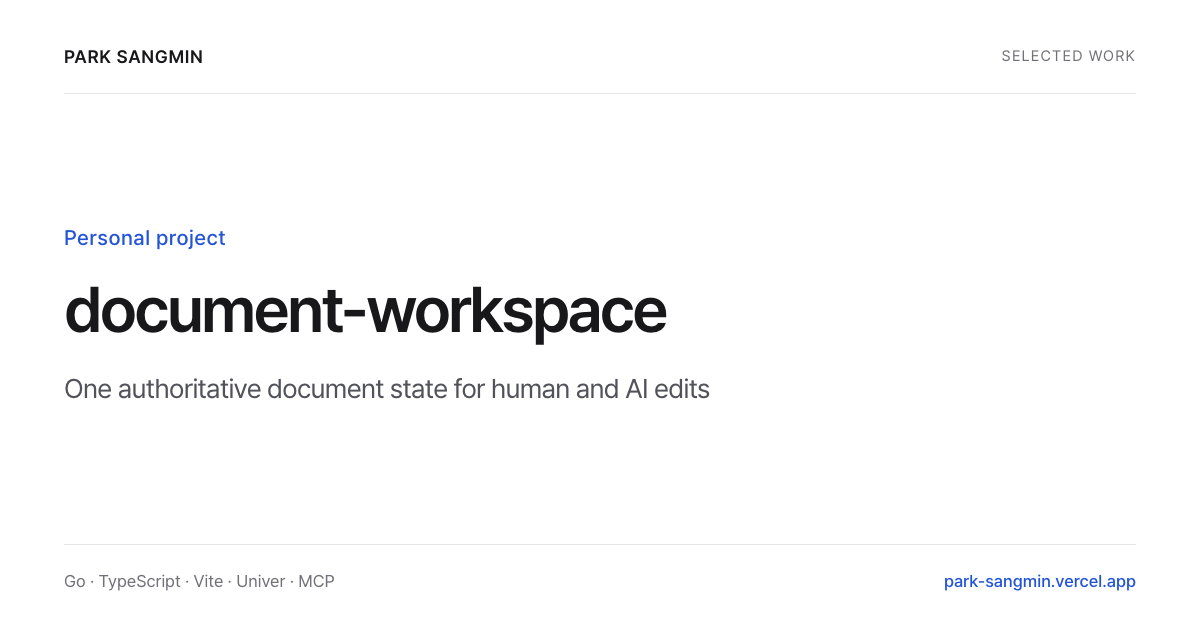
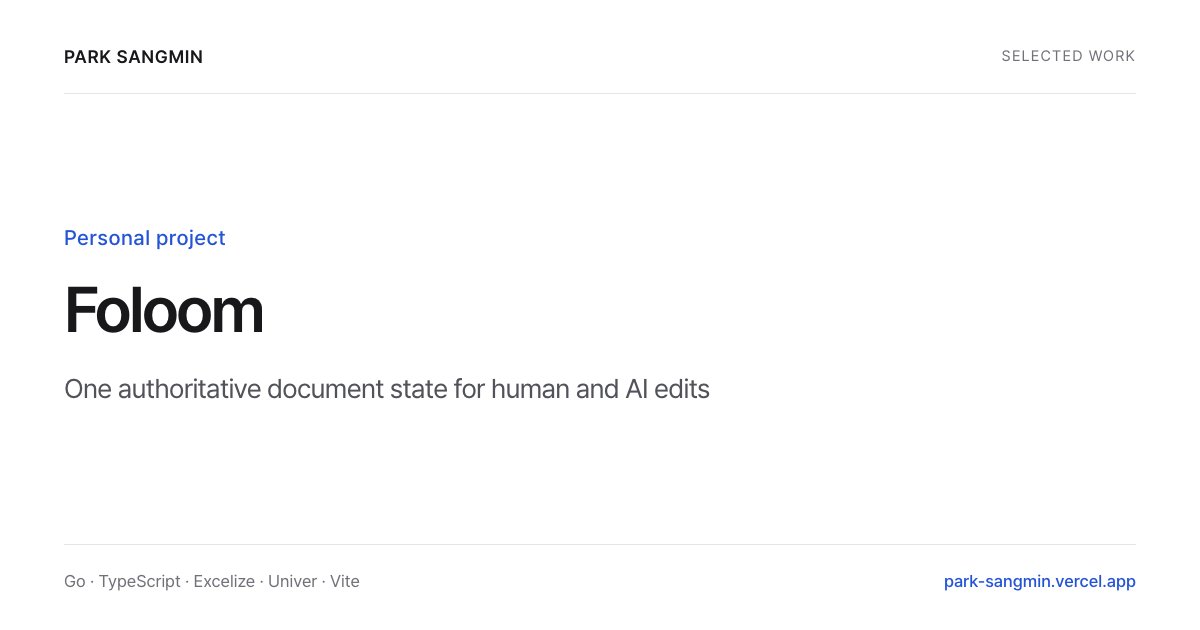
docs: refresh Foloom captions and sharing cards

Changed region(s): [[0.0308, 0.4524, 0.555, 0.5429], [0.1542, 0.9048, 0.3083, 0.9349]]

diff --git a/src/data/project-screens.ts b/src/data/project-screens.ts
@@ -49,7 +49,7 @@ export const primaryScreens: Record<string, SupplementalScreen> = {
   notiiv: { src: '/projects/notiiv/img.png', width: 1905, height: 956, ko: 'Notiiv 고객지원 실제 화면', en: 'Actual Notiiv customer support screen' },
   'design-system': { src: '/projects/design-system/storybook-overview.png', width: 1440, height: 900, ko: 'Bigtablet Design System의 Storybook 실제 화면', en: 'Actual Bigtablet Design System Storybook screen' },
   intranet: { src: '/projects/intranet/home.png', width: 390, height: 788, ko: '데모 데이터로 실행한 Bigtablet 인트라넷 모바일 홈', en: 'Bigtablet intranet mobile home running with fixture data' },
-  'document-workspace': { src: '/projects/document-workspace/editor.png', width: 1440, height: 900, ko: '호환성 검증용 XLSX를 연 document-workspace 실제 편집기', en: 'Actual document-workspace editor with a compatibility XLSX fixture' },
+  'document-workspace': { src: '/projects/document-workspace/editor.png', width: 1440, height: 900, ko: '호환성 검증용 XLSX를 연 Foloom(이전 이름 document-workspace) 실제 편집기', en: 'Actual Foloom editor (formerly document-workspace) with a compatibility XLSX fixture' },
   'apple-music-discord-presence': { src: '/projects/apple-music-discord-presence/discord-presence.png', width: 828, height: 340, ko: 'macOS Discord에 표시된 Apple Music 활동', en: 'Apple Music activity displayed in Discord on macOS' },
   owkr: { src: '/projects/owkr/team-result.png', width: 1600, height: 1000, ko: 'OWKR Match에서 데모 참가자 10명으로 실행한 팀 배정 · 2026-10-29', en: 'Team assignment executed in OWKR Match with ten demo participants · 2026-10-29' },
   chorus: { src: '/projects/chorus/vinyl.png', width: 600, height: 1000, ko: 'Chorus · 실제 곡을 선택해 확인한 로컬 앱의 3D 카드 편집 화면', en: 'Chorus 3D card editor in the local app with a selected music track' },
